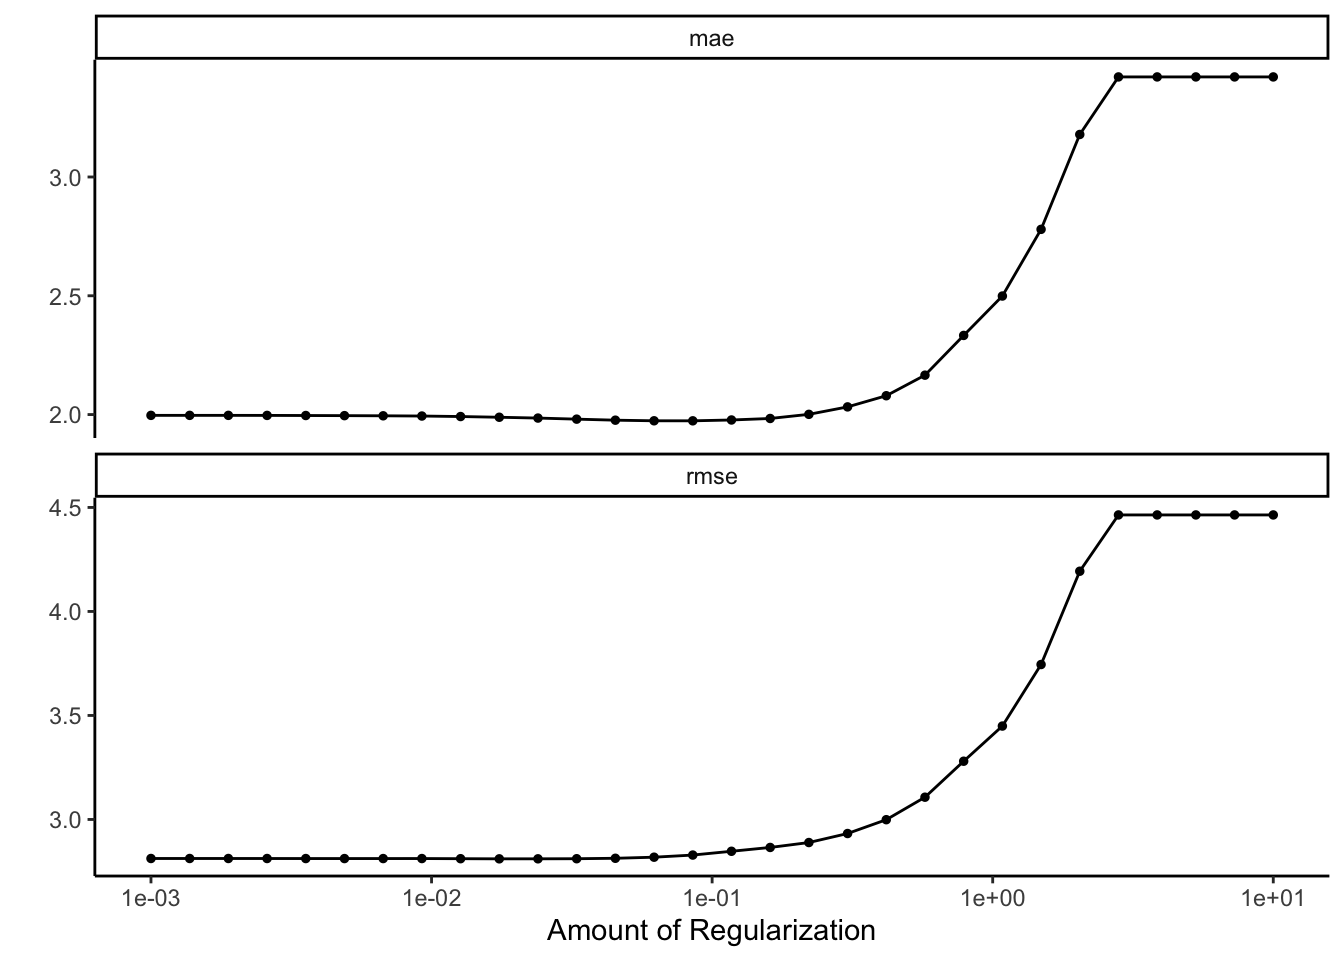
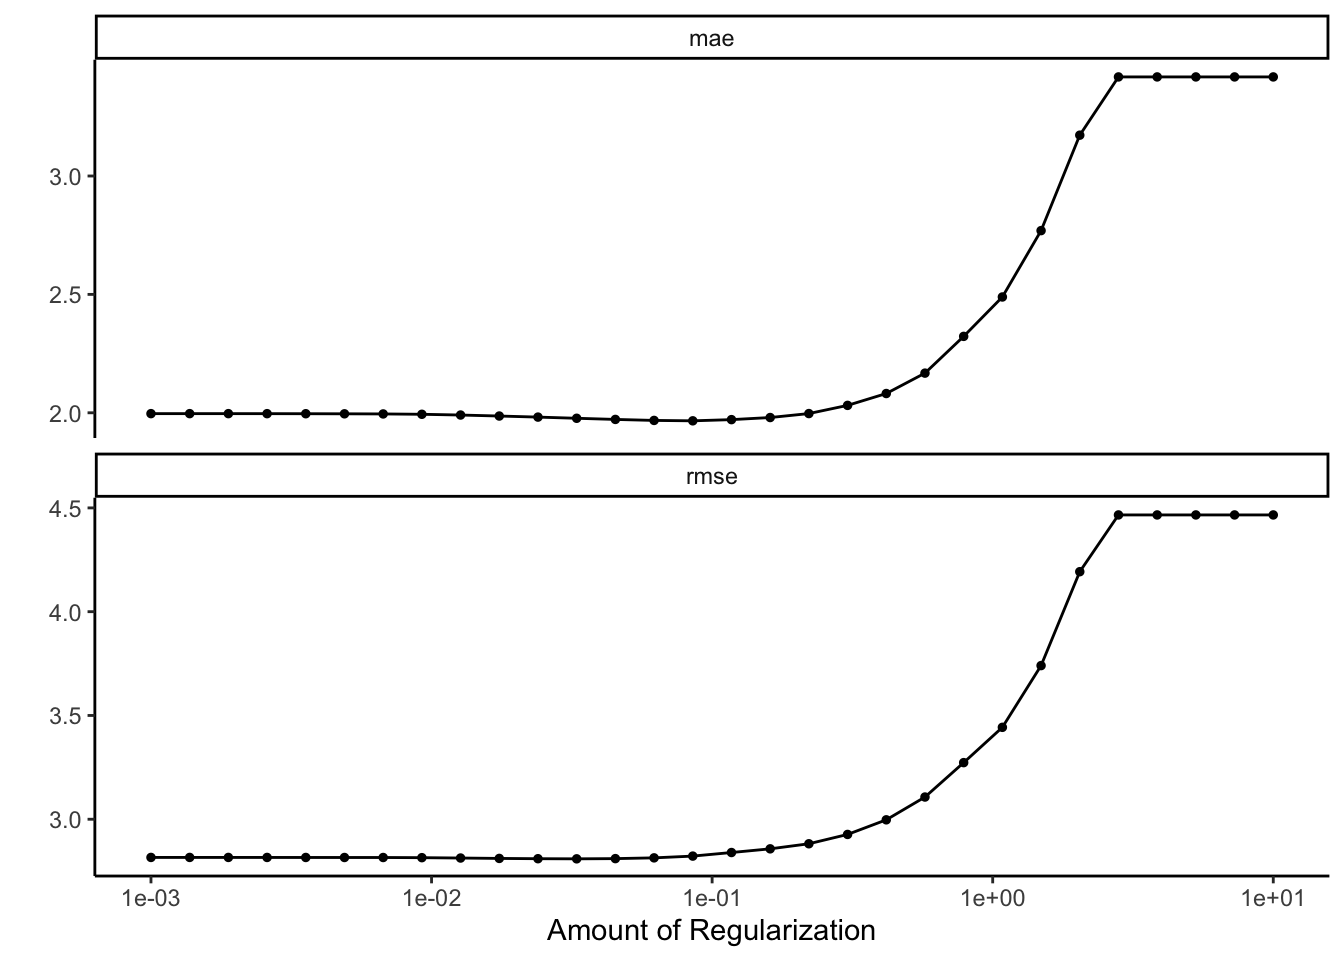
Added bike rental machine learning project

diff --git a/docs/projects.html b/docs/projects.html
@@ -193,7 +193,7 @@ window.Quarto = {
 <!-- margin-sidebar -->
     <div id="quarto-margin-sidebar" class="sidebar margin-sidebar">
         
-    <h5 class="quarto-listing-category-title">Categories</h5><div class="quarto-listing-category category-default"><div class="category" data-category="">All <span class="quarto-category-count">(6)</span></div><div class="category" data-category="Causal Inference">Causal Inference <span class="quarto-category-count">(1)</span></div><div class="category" data-category="Correlated Data">Correlated Data <span class="quarto-category-count">(1)</span></div><div class="category" data-category="Genetics">Genetics <span class="quarto-category-count">(1)</span></div><div class="category" data-category="Machine Learning">Machine Learning <span class="quarto-category-count">(1)</span></div><div class="category" data-category="Methods">Methods <span class="quarto-category-count">(1)</span></div><div class="category" data-category="R">R <span class="quarto-category-count">(4)</span></div><div class="category" data-category="Research">Research <span class="quarto-category-count">(2)</span></div><div class="category" data-category="Summer Institute in Biostatistics">Summer Institute in Biostatistics <span class="quarto-category-count">(1)</span></div><div class="category" data-category="Survival Analysis">Survival Analysis <span class="quarto-category-count">(1)</span></div><div class="category" data-category="Writing">Writing <span class="quarto-category-count">(1)</span></div></div></div>
+    <h5 class="quarto-listing-category-title">Categories</h5><div class="quarto-listing-category category-default"><div class="category" data-category="">All <span class="quarto-category-count">(7)</span></div><div class="category" data-category="Causal Inference">Causal Inference <span class="quarto-category-count">(1)</span></div><div class="category" data-category="Correlated Data">Correlated Data <span class="quarto-category-count">(1)</span></div><div class="category" data-category="Genetics">Genetics <span class="quarto-category-count">(1)</span></div><div class="category" data-category="Machine Learning">Machine Learning <span class="quarto-category-count">(2)</span></div><div class="category" data-category="Methods">Methods <span class="quarto-category-count">(1)</span></div><div class="category" data-category="Python">Python <span class="quarto-category-count">(1)</span></div><div class="category" data-category="R">R <span class="quarto-category-count">(4)</span></div><div class="category" data-category="Research">Research <span class="quarto-category-count">(2)</span></div><div class="category" data-category="Summer Institute in Biostatistics">Summer Institute in Biostatistics <span class="quarto-category-count">(1)</span></div><div class="category" data-category="Survival Analysis">Survival Analysis <span class="quarto-category-count">(1)</span></div><div class="category" data-category="Writing">Writing <span class="quarto-category-count">(1)</span></div></div></div>
 <!-- main -->
 <main class="content quarto-banner-title-block column-page-left" id="quarto-document-content">
 
@@ -226,7 +226,37 @@ window.Quarto = {
     </div>
 </div>
 <div class="list grid quarto-listing-cols-3">
-<div class="g-col-1" data-index="0" data-categories="Causal Inference,Methods,Writing" data-listing-file-modified-sort="1735494996276" data-listing-reading-time-sort="1" data-listing-word-count-sort="1">
+<div class="g-col-1" data-index="0" data-categories="Machine Learning,Python" data-listing-file-modified-sort="1736553379165" data-listing-reading-time-sort="1" data-listing-word-count-sort="91">
+<a href="./projects/Bike/bike.html" class="quarto-grid-link">
+<div class="quarto-grid-item card h-100 card-left">
+<p class="card-img-top">
+<img loading="lazy" src="./projects/Bike/BikeRentalsSeason.png" class="thumbnail-image card-img" style="height: 150px;" alt="Line Plot displaying average bike rentals for each season">
+</p>
+<div class="card-body post-contents">
+<h5 class="no-anchor card-title listing-title">
+Predicting Bike Share Demand in Seoul, South Korea
+</h5>
+<div class="listing-categories">
+<div class="listing-category" onclick="window.quartoListingCategory('Machine Learning'); return false;">
+Machine Learning
+</div>
+<div class="listing-category" onclick="window.quartoListingCategory('Python'); return false;">
+Python
+</div>
+</div>
+<div class="card-text listing-description">
+Final project for STAT 5052 “Statistical and Machine Learning”. Completed with James Manne-Nicholas.
+</div>
+<div class="card-attribution card-text-small start">
+<div class="listing-author">
+
+</div>
+</div>
+</div>
+</div>
+</a>
+</div>
+<div class="g-col-1" data-index="1" data-categories="Causal Inference,Methods,Writing" data-listing-file-modified-sort="1735611933217" data-listing-reading-time-sort="1" data-listing-word-count-sort="11">
 <a href="./projects/Interference/Interference.html" class="quarto-grid-link">
 <div class="quarto-grid-item card h-100 card-left">
 <p class="card-img-top">
@@ -234,7 +264,7 @@ window.Quarto = {
 </p>
 <div class="card-body post-contents">
 <h5 class="no-anchor card-title listing-title">
-Interference
+Interference in Causal Inference
 </h5>
 <div class="listing-categories">
 <div class="listing-category" onclick="window.quartoListingCategory('Causal Inference'); return false;">
@@ -248,7 +278,7 @@ Writing
 </div>
 </div>
 <div class="card-text listing-description">
-https://docs.google.com/document/d/18FHp-WNjlHc1ubSEVgNxdz8IuWxmmQr1/edit?usp=sharing&amp;ouid=116188639352950574208&amp;rtpof=true&amp;sd=true
+Final Project for STAT 451 “Causal Inference” at Macalester College.
 </div>
 <div class="card-attribution card-text-small start">
 <div class="listing-author">
@@ -259,7 +289,7 @@ https://docs.google.com/document/d/18FHp-WNjlHc1ubSEVgNxdz8IuWxmmQr1/edit?usp=sh
 </div>
 </a>
 </div>
-<div class="g-col-1" data-index="1" data-categories="Research,Genetics" data-listing-file-modified-sort="1735519781343" data-listing-reading-time-sort="1" data-listing-word-count-sort="16">
+<div class="g-col-1" data-index="2" data-categories="Research,Genetics" data-listing-file-modified-sort="1735519781343" data-listing-reading-time-sort="1" data-listing-word-count-sort="16">
 <a href="./projects/Personality/Personality.html" class="quarto-grid-link">
 <div class="quarto-grid-item card h-100 card-left">
 <p class="card-img-top">
@@ -289,7 +319,7 @@ Produced for STAT 494 “Statistical Genetics” at Macalester College with Lucy
 </div>
 </a>
 </div>
-<div class="g-col-1" data-index="2" data-categories="Summer Institute in Biostatistics,R,Research" data-listing-file-modified-sort="1712955782148" data-listing-reading-time-sort="1" data-listing-word-count-sort="83">
+<div class="g-col-1" data-index="3" data-categories="Summer Institute in Biostatistics,R,Research" data-listing-file-modified-sort="1712955782148" data-listing-reading-time-sort="1" data-listing-word-count-sort="83">
 <a href="./projects/BOLD/BOLD.html" class="quarto-grid-link">
 <div class="quarto-grid-item card h-100 card-left">
 <p class="card-img-top">
@@ -322,7 +352,7 @@ This presentation was completed as part of the Summer Institute in Biostatistics
 </div>
 </a>
 </div>
-<div class="g-col-1" data-index="3" data-categories="Machine Learning,R" data-listing-file-modified-sort="1735425495496" data-listing-reading-time-sort="1" data-listing-word-count-sort="24">
+<div class="g-col-1" data-index="4" data-categories="Machine Learning,R" data-listing-file-modified-sort="1735621382716" data-listing-reading-time-sort="1" data-listing-word-count-sort="24">
 <a href="./projects/CO2/CO2.html" class="quarto-grid-link">
 <div class="quarto-grid-item card h-100 card-left">
 <p class="card-img-top">
@@ -341,7 +371,7 @@ R
 </div>
 </div>
 <div class="card-text listing-description">
-Completed as final project for STAT 253 “Statistical Machine Learning” at Macalester College with Ayaa Asoba and Julia Coelho
+Completed as final project for STAT 253 “Statistical Machine Learning” at Macalester College with Ayaa Asoba and Julia Coelho.
 </div>
 <div class="card-attribution card-text-small start">
 <div class="listing-author">
@@ -352,7 +382,7 @@ Completed as final project for STAT 253 “Statistical Machine Learning” at Ma
 </div>
 </a>
 </div>
-<div class="g-col-1" data-index="4" data-categories="Survival Analysis,R" data-listing-file-modified-sort="1735425493355" data-listing-reading-time-sort="1" data-listing-word-count-sort="56">
+<div class="g-col-1" data-index="5" data-categories="Survival Analysis,R" data-listing-file-modified-sort="1735425493355" data-listing-reading-time-sort="1" data-listing-word-count-sort="56">
 <a href="./projects/Survival/Survival_Analysis.html" class="quarto-grid-link">
 <div class="quarto-grid-item card h-100 card-left">
 <p class="card-img-top">
@@ -382,7 +412,7 @@ Using Kaplan Meier curves and a Cox proportional hazard model, I analyzed the re
 </div>
 </a>
 </div>
-<div class="g-col-1" data-index="5" data-categories="Correlated Data,R" data-listing-file-modified-sort="1709494770674" data-listing-reading-time-sort="1" data-listing-word-count-sort="29">
+<div class="g-col-1" data-index="6" data-categories="Correlated Data,R" data-listing-file-modified-sort="1709494770674" data-listing-reading-time-sort="1" data-listing-word-count-sort="29">
 <a href="./projects/Renewable Energy/Renewable_Energy.html" class="quarto-grid-link">
 <div class="quarto-grid-item card h-100 card-left">
 <p class="card-img-top">

diff --git a/docs/projects/Bike/bike.html b/docs/projects/Bike/bike.html
@@ -7,7 +7,7 @@
 <meta name="viewport" content="width=device-width, initial-scale=1.0, user-scalable=yes">
 
 
-<title>CO2 Levels in 20 Major Countries – Ting-Chien Huang</title>
+<title>Predicting Bike Share Demand in Seoul, South Korea – Ting-Chien Huang</title>
 <style>
 code{white-space: pre-wrap;}
 span.smallcaps{font-variant: small-caps;}
@@ -121,26 +121,27 @@ ul.task-list li input[type="checkbox"] {
     <div class="entity-contents">
       <header id="title-block-header" class="quarto-title-block default">
 <div class="quarto-title">
-<h1 class="title">CO2 Levels in 20 Major Countries</h1>
+<h1 class="title">Predicting Bike Share Demand in Seoul, South Korea</h1>
   <div class="quarto-categories">
     <div class="quarto-category">Machine Learning</div>
-    <div class="quarto-category">R</div>
+    <div class="quarto-category">Python</div>
   </div>
   </div>
 <div class="quarto-title-meta">
   </div>
 </header> 
       <div class="about-contents"><main class="content" id="quarto-document-content">
-<p>Completed as final project for STAT 253 “Statistical Machine Learning” at Macalester College with Ayaa Asoba and Julia Coelho.</p>
+<p>Final project for STAT 5052 “Statistical and Machine Learning”. Completed with James Manne-Nicholas.</p>
+<p>After some light data exploration and cleaning, we fit and tuned several models like KNN regressors, random forest regressors, and gradient boosted trees in order to predict the amount of bikes that would be rented at a specific time in Seoul, South Korea. The best performing model was the random forest regressor although we believe with more time, the gradient boosted trees could have been more precisely tuned which may have resulted in better performance.</p>
 <p><strong>Products</strong></p>
-<p>Presentation: <a href="https://docs.google.com/presentation/d/1cRzZPT1LijIIKyGGKAEzkKDYWMsYUf22/edit?usp=sharing&amp;ouid=116188639352950574208&amp;rtpof=true&amp;sd=true" class="uri">https://docs.google.com/presentation/d/1cRzZPT1LijIIKyGGKAEzkKDYWMsYUf22/edit?usp=sharing&amp;ouid=116188639352950574208&amp;rtpof=true&amp;sd=true</a></p>
-<p>Github: <a href="https://github.com/tchuang1290/StatMLFinalProj" class="uri">https://github.com/tchuang1290/StatMLFinalProj</a></p>
-<p>RMD: <a href="../../Rmd/Final_Code_Appendix_Ayaa_Julia_Ting.html">Final Code Appendix</a></p>
+<p>Report: <a href="https://docs.google.com/document/d/1cvEJvZvzSElZxPAhhu9ZaHuY_53BHdaD/edit?usp=sharing&amp;ouid=116188639352950574208&amp;rtpof=true&amp;sd=true" class="uri">https://docs.google.com/document/d/1cvEJvZvzSElZxPAhhu9ZaHuY_53BHdaD/edit?usp=sharing&amp;ouid=116188639352950574208&amp;rtpof=true&amp;sd=true</a></p>
+<p>Presentation: <a href="https://docs.google.com/presentation/d/1wV44XmlXuoohZXDP1rqbFJv7o2USNWWD/edit?usp=sharing&amp;ouid=116188639352950574208&amp;rtpof=true&amp;sd=true" class="uri">https://docs.google.com/presentation/d/1wV44XmlXuoohZXDP1rqbFJv7o2USNWWD/edit?usp=sharing&amp;ouid=116188639352950574208&amp;rtpof=true&amp;sd=true</a></p>
+<p>Jupyter Notebook: <a href="https://github.com/tchuang1290/5052FinalProject/blob/main/5052Project.ipynb" class="uri">https://github.com/tchuang1290/5052FinalProject/blob/main/5052Project.ipynb</a></p>
 
 
 </main></div>
     </div>
-    <img src="tree.png" alt="Graphic displaying residuals for final OLS model" class="about-image
+    <img src="BikeRentalsSeason.png" alt="Line Plot displaying average bike rentals for each season" class="about-image
   rounded " style="width: 15em;">
   </div>
 </div>

diff --git a/docs/Rmd/Final_Code_Appendix_Ayaa_Julia_Ting.html b/docs/Rmd/Final_Code_Appendix_Ayaa_Julia_Ting.html
@@ -527,9 +527,9 @@ $schoolEnroll
 <pre><code># A tibble: 3 × 6
   .metric .estimator  mean     n std_err .config             
   &lt;chr&gt;   &lt;chr&gt;      &lt;dbl&gt; &lt;int&gt;   &lt;dbl&gt; &lt;chr&gt;               
-1 mae     standard   2.00     10  0.0791 Preprocessor1_Model1
-2 rmse    standard   2.81     10  0.147  Preprocessor1_Model1
-3 rsq     standard   0.615    10  0.0173 Preprocessor1_Model1</code></pre>
+1 mae     standard   2.00     10  0.0733 Preprocessor1_Model1
+2 rmse    standard   2.82     10  0.127  Preprocessor1_Model1
+3 rsq     standard   0.611    10  0.0166 Preprocessor1_Model1</code></pre>
 </div>
 <div class="sourceCode cell-code" id="cb42"><pre class="sourceCode r code-with-copy"><code class="sourceCode r"><span id="cb42-1"><a href="#cb42-1" aria-hidden="true" tabindex="-1"></a><span class="co"># Residuals </span></span>
 <span id="cb42-2"><a href="#cb42-2" aria-hidden="true" tabindex="-1"></a>esg_fit_model1_residuals <span class="ot">&lt;-</span> <span class="fu">bind_cols</span>(esgdataAll_sub, esg_fit_model1 <span class="sc">%&gt;%</span> </span>
@@ -748,8 +748,8 @@ $schoolEnroll
 <pre><code># A tibble: 2 × 7
   penalty .metric .estimator  mean     n std_err .config              
     &lt;dbl&gt; &lt;chr&gt;   &lt;chr&gt;      &lt;dbl&gt; &lt;int&gt;   &lt;dbl&gt; &lt;chr&gt;                
-1   0.304 mae     standard    2.03    10  0.0930 Preprocessor1_Model19
-2   0.304 rmse    standard    2.93    10  0.167  Preprocessor1_Model19</code></pre>
+1   0.304 mae     standard    2.03    10  0.0956 Preprocessor1_Model19
+2   0.304 rmse    standard    2.93    10  0.160  Preprocessor1_Model19</code></pre>
 </div>
 <div class="sourceCode cell-code" id="cb60"><pre class="sourceCode r code-with-copy"><code class="sourceCode r"><span id="cb60-1"><a href="#cb60-1" aria-hidden="true" tabindex="-1"></a>lasso_mod_out <span class="ot">&lt;-</span> final_fit_se <span class="sc">%&gt;%</span></span>
 <span id="cb60-2"><a href="#cb60-2" aria-hidden="true" tabindex="-1"></a>    <span class="fu">predict</span>(<span class="at">new_data =</span> esgdataAll_sub) <span class="sc">%&gt;%</span></span>
@@ -870,8 +870,8 @@ GCV = 3.7724  Scale est. = 3.42      n = 713</code></pre>
 <pre><code># A tibble: 2 × 6
   .metric .estimator  mean     n std_err .config             
   &lt;chr&gt;   &lt;chr&gt;      &lt;dbl&gt; &lt;int&gt;   &lt;dbl&gt; &lt;chr&gt;               
-1 mae     standard   1.38     10  0.0483 Preprocessor1_Model1
-2 rsq     standard   0.832    10  0.0122 Preprocessor1_Model1</code></pre>
+1 mae     standard   1.37     10 0.0456  Preprocessor1_Model1
+2 rsq     standard   0.835    10 0.00632 Preprocessor1_Model1</code></pre>
 </div>
 <div class="sourceCode cell-code" id="cb70"><pre class="sourceCode r code-with-copy"><code class="sourceCode r"><span id="cb70-1"><a href="#cb70-1" aria-hidden="true" tabindex="-1"></a>esg_gam_model2 <span class="ot">&lt;-</span> spline_wf <span class="sc">%&gt;%</span> <span class="fu">fit</span>(<span class="at">data=</span>esgdataAll_sub)</span>
 <span id="cb70-2"><a href="#cb70-2" aria-hidden="true" tabindex="-1"></a>esg_gam_model2_residuals <span class="ot">&lt;-</span> <span class="fu">bind_cols</span>(esgdataAll_sub, esg_gam_model2 <span class="sc">%&gt;%</span> </span>

diff --git a/docs/projects/Interference/Interference.html b/docs/projects/Interference/Interference.html
@@ -7,7 +7,7 @@
 <meta name="viewport" content="width=device-width, initial-scale=1.0, user-scalable=yes">
 
 
-<title>Interference – Ting-Chien Huang</title>
+<title>Interference in Causal Inference – Ting-Chien Huang</title>
 <style>
 code{white-space: pre-wrap;}
 span.smallcaps{font-variant: small-caps;}
@@ -121,7 +121,7 @@ ul.task-list li input[type="checkbox"] {
     <div class="entity-contents">
       <header id="title-block-header" class="quarto-title-block default">
 <div class="quarto-title">
-<h1 class="title">Interference</h1>
+<h1 class="title">Interference in Causal Inference</h1>
   <div class="quarto-categories">
     <div class="quarto-category">Causal Inference</div>
     <div class="quarto-category">Methods</div>
@@ -132,7 +132,9 @@ ul.task-list li input[type="checkbox"] {
   </div>
 </header> 
       <div class="about-contents"><main class="content" id="quarto-document-content">
-<p><a href="https://docs.google.com/document/d/18FHp-WNjlHc1ubSEVgNxdz8IuWxmmQr1/edit?usp=sharing&amp;ouid=116188639352950574208&amp;rtpof=true&amp;sd=true" class="uri">https://docs.google.com/document/d/18FHp-WNjlHc1ubSEVgNxdz8IuWxmmQr1/edit?usp=sharing&amp;ouid=116188639352950574208&amp;rtpof=true&amp;sd=true</a></p>
+<p>Final Project for STAT 451 “Causal Inference” at Macalester College.</p>
+<p><strong>Product</strong></p>
+<p>Report: <a href="https://docs.google.com/document/d/18FHp-WNjlHc1ubSEVgNxdz8IuWxmmQr1/edit?usp=sharing&amp;ouid=116188639352950574208&amp;rtpof=true&amp;sd=true" class="uri">https://docs.google.com/document/d/18FHp-WNjlHc1ubSEVgNxdz8IuWxmmQr1/edit?usp=sharing&amp;ouid=116188639352950574208&amp;rtpof=true&amp;sd=true</a></p>
 
 
 </main></div>

diff --git a/docs/coursework/Statistical Genetics/StatGen.html b/docs/coursework/Statistical Genetics/StatGen.html
@@ -133,6 +133,7 @@ ul.task-list li input[type="checkbox"] {
 </header> 
       <div class="about-contents"><main class="content" id="quarto-document-content">
 <p>Main work produced for this course was content summaries which involved summarizing important information from lectures and labs.</p>
+<p><strong>Products</strong></p>
 <p>Content Summary 1: <a href="https://drive.google.com/file/d/1zYPC-N_uqZIixcNx64-OkYlHObDFYNum/view?usp=sharing" class="uri">https://drive.google.com/file/d/1zYPC-N_uqZIixcNx64-OkYlHObDFYNum/view?usp=sharing</a></p>
 <p>Content Summary 2: <a href="../../Rmd/Content Summary 2.html">Content Summary 2</a></p>
 <p>Content Summary 3: <a href="https://docs.google.com/document/d/1HM51evWTNX9X5kaDiijT-2u5ZDcuSovd/edit?usp=sharing&amp;ouid=116188639352950574208&amp;rtpof=true&amp;sd=true" class="uri">https://docs.google.com/document/d/1HM51evWTNX9X5kaDiijT-2u5ZDcuSovd/edit?usp=sharing&amp;ouid=116188639352950574208&amp;rtpof=true&amp;sd=true</a></p>

diff --git a/docs/other/piano_recital/recital.html b/docs/other/piano_recital/recital.html
@@ -133,11 +133,11 @@ ul.task-list li input[type="checkbox"] {
       <div class="about-contents"><main class="content" id="quarto-document-content">
 <p>50 minute recital performed as my capstone project for my music major.</p>
 <p>Program:</p>
-<p>Etude No 16 - Philip Glass</p>
-<p>Prelude and Fugue No 10 - Dmitri Shostakovich</p>
-<p>Sonata - Ludwig Van Beethoven</p>
-<p>Piece - Paul Gabriel Cosme</p>
-<p>Ballade No 4 - Frederic Chopin</p>
+<p>Etude for Piano No 16 - Philip Glass</p>
+<p>Prelude and Fugue in C-Sharp Minor, Op. 87, No 10 - Dmitri Shostakovich</p>
+<p>Sonata for Piano in E Major, Op. 109 - Ludwig Van Beethoven</p>
+<p>The Reminiscents - Paul Gabriel L. Cosme</p>
+<p>Ballade No.&nbsp;3 in A-Flat Major, Op. 47 - Frederic Chopin</p>
 <p>Watch it here: <a href="https://vimeo.com/822164806/b3802f7e42" class="uri">https://vimeo.com/822164806/b3802f7e42</a></p>
 
 

diff --git a/docs/other.html b/docs/other.html
@@ -226,7 +226,7 @@ window.Quarto = {
     </div>
 </div>
 <div class="list grid quarto-listing-cols-3">
-<div class="g-col-1" data-index="0" data-categories="Music,Piano" data-listing-file-modified-sort="1719842303279" data-listing-reading-time-sort="1" data-listing-word-count-sort="40">
+<div class="g-col-1" data-index="0" data-categories="Music,Piano" data-listing-file-modified-sort="1735611574365" data-listing-reading-time-sort="1" data-listing-word-count-sort="61">
 <a href="./other/piano_recital/recital.html" class="quarto-grid-link">
 <div class="quarto-grid-item card h-100 card-left">
 <p class="card-img-top">

diff --git a/docs/coursework.html b/docs/coursework.html
@@ -243,7 +243,7 @@ window.Quarto = {
 </div>
 </a>
 </div>
-<div class="g-col-1" data-index="1" data-categories="Genetics,Biostatistics,R" data-listing-file-modified-sort="1735493479057" data-listing-reading-time-sort="1" data-listing-word-count-sort="29">
+<div class="g-col-1" data-index="1" data-categories="Genetics,Biostatistics,R" data-listing-file-modified-sort="1735611960910" data-listing-reading-time-sort="1" data-listing-word-count-sort="29">
 <a href="./coursework/Statistical Genetics/StatGen.html" class="quarto-grid-link">
 <div class="quarto-grid-item card h-100 card-left">
 <p class="card-img-top">
